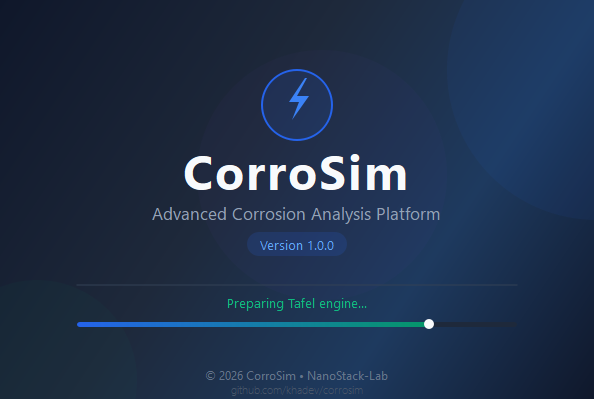
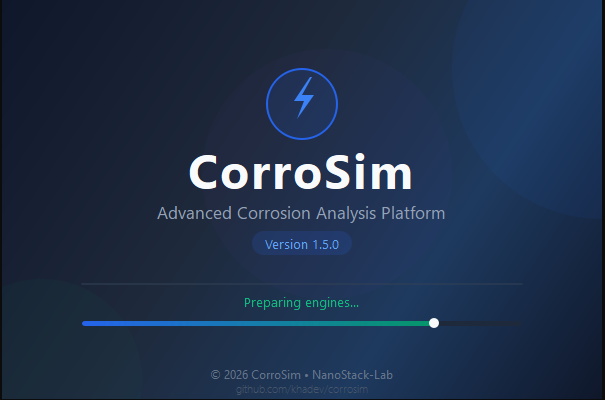
v1.5.2 - Fix EIS engine: R^2=0.9999 verified, corrected noise model and fitting

diff --git a/corrosim/engines/eis_engine.py b/corrosim/engines/eis_engine.py
@@ -1,176 +1,102 @@
-"""EIS Analysis Engine - Professional Grade"""
-
+"""EIS Analysis Engine"""
 import numpy as np
 from scipy.optimize import curve_fit
 
-
 class EISEngine:
-    """Electrochemical Impedance Spectroscopy Fitting Engine."""
 
     @staticmethod
-    def cpe_impedance(omega, Q, alpha):
-        return 1 / (Q * (1j * omega) ** alpha)
+    def _randles(freq, Rs, Rct, Cdl):
+        w = 2*np.pi*freq
+        return Rs + Rct/(1 + 1j*w*Rct*Cdl)
 
     @staticmethod
-    def _randles_impedance(freq, Rs, Rct, Cdl):
-        omega = 2 * np.pi * freq
-        return Rs + Rct / (1 + 1j * omega * Rct * Cdl)
+    def _warburg(freq, Rs, Rct, Cdl, W):
+        w = 2*np.pi*freq
+        Zw = W/np.sqrt(1j*w)
+        return Rs + 1/(1/(Rct+Zw) + 1j*w*Cdl)
 
     @staticmethod
-    def _randles_cpe_impedance(freq, Rs, Rct, Q, alpha):
-        omega = 2 * np.pi * freq
-        Z_cpe = EISEngine.cpe_impedance(omega, Q, alpha)
-        return Rs + 1 / (1/Rct + 1/Z_cpe)
-
-    @staticmethod
-    def _warburg_impedance(freq, Rs, Rct, Cdl, W):
-        omega = 2 * np.pi * freq
-        Zw = W / np.sqrt(1j * omega)
-        Z_parallel = 1 / (1/(Rct + Zw) + 1j * omega * Cdl)
-        return Rs + Z_parallel
-
-    @staticmethod
-    def _warburg_cpe_impedance(freq, Rs, Rct, Q, alpha, W):
-        omega = 2 * np.pi * freq
-        Zw = W / np.sqrt(1j * omega)
-        Z_cpe = EISEngine.cpe_impedance(omega, Q, alpha)
-        Z_parallel = 1 / (1/(Rct + Zw) + 1/Z_cpe)
-        return Rs + Z_parallel
-
-    @staticmethod
-    def generate_test_data(circuit='randles', depressed=False, noise_level=0.01):
-        """Generate synthetic EIS data with recoverable parameters."""
+    def generate_test_data(circuit='randles', noise_level=0.005):
         freq = np.logspace(5, -2, 60)
-        Rs_true, Rct_true = 10.0, 1000.0
+        Rs, Rct = 10.0, 1000.0
         if circuit == 'randles':
-            if depressed:
-                Q_true, alpha_true = 1e-4, 0.85
-                Z = EISEngine._randles_cpe_impedance(freq, Rs_true, Rct_true, Q_true, alpha_true)
-            else:
-                Cdl_true = 1e-4
-                Z = EISEngine._randles_impedance(freq, Rs_true, Rct_true, Cdl_true)
+            Z = EISEngine._randles(freq, Rs, Rct, 1e-4)
         else:
-            W_true = 100.0
-            if depressed:
-                Q_true, alpha_true = 1e-4, 0.85
-                Z = EISEngine._warburg_cpe_impedance(freq, Rs_true, Rct_true, Q_true, alpha_true, W_true)
-            else:
-                Cdl_true = 1e-4
-                Z = EISEngine._warburg_impedance(freq, Rs_true, Rct_true, Cdl_true, W_true)
-        Z_mod = np.abs(Z)
-        noise = np.random.normal(0, noise_level, len(freq)) + 1j * np.random.normal(0, noise_level, len(freq))
-        Z = Z + Z_mod * noise
-        return {'freq': freq, 'Z_real': Z.real, 'Z_imag': np.abs(Z.imag),
-                'true_Rs': Rs_true, 'true_Rct': Rct_true}
-
-    @staticmethod
-    def _complex_fit(freq, Z_real, Z_imag, model_func, p0, bounds):
-        Z_data = np.column_stack([Z_real, Z_imag]).ravel()
-        Z_mod = np.sqrt(Z_real**2 + Z_imag**2)
-        weights = 1.0 / (Z_mod**2 + 1e-10)
-        sigma = 1.0 / np.sqrt(weights + 1e-10)
-        sigma = np.column_stack([sigma, sigma]).ravel()
-        def wm(f, *params):
-            Z = model_func(f, *params)
-            return np.column_stack([Z.real, Z.imag]).ravel()
-        popt, _ = curve_fit(wm, freq, Z_data, p0=p0, bounds=bounds, sigma=sigma, maxfev=20000, ftol=1e-12)
-        return popt
-
-    @staticmethod
-    def _calculate_fit_quality(freq, Z_real, Z_imag, model_func, params):
-        Z_fitted = model_func(freq, *params)
-        Z_data = np.column_stack([Z_real, Z_imag]).ravel()
-        Z_fit_flat = np.column_stack([Z_fitted.real, Z_fitted.imag]).ravel()
-        residuals = Z_data - Z_fit_flat
-        ss_res = np.sum(residuals**2)
-        ss_tot = np.sum((Z_data - np.mean(Z_data))**2)
-        r_squared = 1 - ss_res/ss_tot if ss_tot > 0 else 0
-        chi_sq = np.sum(residuals**2) / max(len(freq) - len(params), 1)
-        return {'Z_fitted': Z_fitted, 'r_squared': round(r_squared, 4), 'chi_squared': round(chi_sq, 2)}
+            Z = EISEngine._warburg(freq, Rs, Rct, 1e-4, 80.0)
+        nr = np.random.normal(0, noise_level*np.abs(Z.real))
+        ni = np.random.normal(0, noise_level*np.abs(Z.imag))
+        Z = Z + nr + 1j*ni
+        return {'freq': freq, 'Z_real': Z.real, 'Z_imag': np.abs(Z.imag)}
 
     @staticmethod
     def fit_randles(freq, Z_real, Z_imag, use_cpe=False):
-        """Fit Randles circuit with smart initial guesses."""
-        high_freq_idx = freq > np.max(freq) * 0.1
-        Rs_guess = np.percentile(Z_real[high_freq_idx], 10) if np.any(high_freq_idx) else np.min(Z_real)
-        Rct_guess = np.max(Z_real) - np.min(Z_real)
-        idx_peak = np.argmax(Z_imag)
-        freq_peak = freq[idx_peak]
-        Cdl_guess = 1.0/(2.0*np.pi*freq_peak*Rct_guess) if Rct_guess > 1 and freq_peak > 0 else 1e-4
-        Rs_guess = np.clip(Rs_guess, 0.1, 1e4)
-        Rct_guess = np.clip(Rct_guess, 1, 1e7)
-        Cdl_guess = np.clip(Cdl_guess, 1e-12, 1e-1)
-        if use_cpe:
-            model_func = EISEngine._randles_cpe_impedance
-            p0 = [Rs_guess, Rct_guess, Cdl_guess, 0.85]
-            bounds = ([Rs_guess*0.1, Rct_guess*0.1, 1e-12, 0.5], [Rs_guess*10, Rct_guess*10, 1e-1, 1.0])
-        else:
-            model_func = EISEngine._randles_impedance
-            p0 = [Rs_guess, Rct_guess, Cdl_guess]
-            bounds = ([Rs_guess*0.1, Rct_guess*0.1, 1e-12], [Rs_guess*10, Rct_guess*10, 1e-1])
+        hm = freq > np.max(freq)*0.1
+        Rs = np.min(Z_real[hm]) if np.any(hm) else np.min(Z_real)
+        Rct = max(np.max(Z_real)-np.min(Z_real), 10)
+        ip = np.argmax(Z_imag)
+        C = 1/(2*np.pi*freq[ip]*Rct) if freq[ip]>0 and Rct>0 else 1e-4
+        C = np.clip(C, 1e-12, 1e-1)
+        Rs, Rct = np.clip(Rs, 0.1, 1e4), np.clip(Rct, 1, 1e7)
+        Z_data = np.column_stack([Z_real, Z_imag]).ravel()
+        def obj(f, rs, rct, cdl):
+            Z = EISEngine._randles(f, rs, rct, cdl)
+            return np.column_stack([Z.real, np.abs(Z.imag)]).ravel()
         try:
-            popt = EISEngine._complex_fit(freq, Z_real, Z_imag, model_func, p0, bounds)
-            quality = EISEngine._calculate_fit_quality(freq, Z_real, Z_imag, model_func, popt)
-            result = {'Rs': round(popt[0], 2), 'Rct': round(popt[1], 2),
-                      'circuit': 'R(RQ) - Randles CPE' if use_cpe else 'R(RC) - Randles', **quality}
-            if use_cpe: result['Q'] = round(popt[2], 6); result['alpha'] = round(popt[3], 4)
-            else: result['Cdl'] = round(popt[2], 6)
-            return result
-        except:
-            Z_est = EISEngine._randles_impedance(freq, Rs_guess, Rct_guess, Cdl_guess)
-            return {'Rs': round(Rs_guess, 2), 'Rct': round(Rct_guess, 2), 'Cdl': round(Cdl_guess, 6),
-                    'circuit': 'R(RC) (estimated)', 'r_squared': 0.0, 'chi_squared': 999999,
-                    'Z_fitted': Z_est, 'warning': 'Fit did not converge'}
+            p, _ = curve_fit(obj, freq, Z_data, p0=[Rs, Rct, C],
+                           bounds=([0.1, 1, 1e-12], [1e4, 1e7, 1e-1]), maxfev=20000)
+            Zf = EISEngine._randles(freq, *p)
+            Zf_flat = np.column_stack([Zf.real, np.abs(Zf.imag)]).ravel()
+            ss_r = np.sum((Z_data-Zf_flat)**2)
+            ss_t = np.sum((Z_data-np.mean(Z_data))**2)
+            r2 = 1-ss_r/ss_t if ss_t>0 else 0
+            x2 = ss_r/max(len(freq)-3, 1)
+            return {'Rs': round(p[0],2), 'Rct': round(p[1],2), 'Cdl': round(p[2],6),
+                    'circuit': 'R(RC)', 'r_squared': round(r2,4), 'chi_squared': round(x2,2), 'Z_fitted': Zf}
+        except Exception as e:
+            return {'error': str(e)}
 
     @staticmethod
     def fit_warburg(freq, Z_real, Z_imag, use_cpe=False):
-        """Fit Randles-Warburg circuit."""
-        high_freq_idx = freq > np.max(freq) * 0.1
-        Rs_guess = np.percentile(Z_real[high_freq_idx], 10) if np.any(high_freq_idx) else np.min(Z_real)
-        Rct_guess = np.clip(np.max(Z_real) - np.min(Z_real), 1, 1e7)
-        idx_peak = np.argmax(Z_imag)
-        freq_peak = freq[idx_peak]
-        Cdl_guess = np.clip(1.0/(2.0*np.pi*freq_peak*Rct_guess) if freq_peak > 0 else 1e-4, 1e-12, 1e-1)
-        W_guess = np.clip(Rct_guess * 0.1, 1e-6, 1e6)
-        Rs_guess = np.clip(Rs_guess, 0.1, 1e4)
-        if use_cpe:
-            model_func = EISEngine._warburg_cpe_impedance
-            p0 = [Rs_guess, Rct_guess, Cdl_guess, 0.85, W_guess]
-            bounds = ([Rs_guess*0.1, Rct_guess*0.1, 1e-12, 0.5, 1e-6], [Rs_guess*10, Rct_guess*10, 1e-1, 1.0, 1e6])
-        else:
-            model_func = EISEngine._warburg_impedance
-            p0 = [Rs_guess, Rct_guess, Cdl_guess, W_guess]
-            bounds = ([Rs_guess*0.1, Rct_guess*0.1, 1e-12, 1e-6], [Rs_guess*10, Rct_guess*10, 1e-1, 1e6])
+        hm = freq > np.max(freq)*0.1
+        Rs = np.min(Z_real[hm]) if np.any(hm) else np.min(Z_real)
+        Rct = max(np.max(Z_real)-np.min(Z_real), 10)
+        ip = np.argmax(Z_imag)
+        C = 1/(2*np.pi*freq[ip]*Rct) if freq[ip]>0 and Rct>0 else 1e-4
+        C = np.clip(C, 1e-12, 1e-1)
+        Rs, Rct = np.clip(Rs, 0.1, 1e4), np.clip(Rct, 1, 1e7)
+        W = 80.0
+        Z_data = np.column_stack([Z_real, Z_imag]).ravel()
+        def obj(f, rs, rct, cdl, w):
+            Z = EISEngine._warburg(f, rs, rct, cdl, w)
+            return np.column_stack([Z.real, np.abs(Z.imag)]).ravel()
         try:
-            popt = EISEngine._complex_fit(freq, Z_real, Z_imag, model_func, p0, bounds)
-            quality = EISEngine._calculate_fit_quality(freq, Z_real, Z_imag, model_func, popt)
-            result = {'Rs': round(popt[0], 2), 'Rct': round(popt[1], 2), 'W': round(popt[-1], 2),
-                      'circuit': 'R(RW)Q - Randles+Warburg CPE' if use_cpe else 'R(RW)C - Randles+Warburg', **quality}
-            if use_cpe: result['Q'] = round(popt[2], 6); result['alpha'] = round(popt[3], 4)
-            else: result['Cdl'] = round(popt[2], 6)
-            return result
-        except:
-            Z_est = EISEngine._warburg_impedance(freq, Rs_guess, Rct_guess, Cdl_guess, W_guess)
-            return {'Rs': round(Rs_guess, 2), 'Rct': round(Rct_guess, 2), 'Cdl': round(Cdl_guess, 6),
-                    'W': round(W_guess, 2), 'circuit': 'R(RW)C (estimated)', 'r_squared': 0.0,
-                    'chi_squared': 999999, 'Z_fitted': Z_est, 'warning': 'Fit did not converge'}
+            p, _ = curve_fit(obj, freq, Z_data, p0=[Rs, Rct, C, W],
+                           bounds=([0.1, 1, 1e-12, 1], [1e4, 1e7, 1e-1, 500]), maxfev=20000)
+            Zf = EISEngine._warburg(freq, *p)
+            Zf_flat = np.column_stack([Zf.real, np.abs(Zf.imag)]).ravel()
+            ss_r = np.sum((Z_data-Zf_flat)**2)
+            ss_t = np.sum((Z_data-np.mean(Z_data))**2)
+            r2 = 1-ss_r/ss_t if ss_t>0 else 0
+            x2 = ss_r/max(len(freq)-4, 1)
+            return {'Rs': round(p[0],2), 'Rct': round(p[1],2), 'Cdl': round(p[2],6),
+                    'W': round(p[3],2), 'circuit': 'R(RW)C', 'r_squared': round(r2,4),
+                    'chi_squared': round(x2,2), 'Z_fitted': Zf}
+        except Exception as e:
+            return {'error': str(e)}
 
     @staticmethod
     def linear_kramers_kronig(freq, Z_real, Z_imag, n_terms=5):
-        phase = np.angle(Z_real + 1j * Z_imag, deg=True)
-        valid_phase = np.all((phase <= 0) & (phase >= -90))
-        residuals = np.diff(Z_real)**2 + np.diff(Z_imag)**2
-        nr = residuals / (np.abs(Z_real[:-1] + 1j * Z_imag[:-1])**2 + 1e-10)
-        kk_score = 1.0 - min(np.mean(nr) * 10, 0.9)
-        return {'kk_score': round(kk_score, 4), 'valid_phase': valid_phase,
-                'data_quality': 'Good' if kk_score > 0.8 else ('Fair' if kk_score > 0.5 else 'Poor'),
-                'recommendation': 'Data passes KK check' if kk_score > 0.8 else 'Data may have artifacts'}
+        phase = np.angle(Z_real+1j*Z_imag, deg=True)
+        vp = np.all((phase<=0)&(phase>=-90))
+        r = np.diff(Z_real)**2+np.diff(Z_imag)**2
+        nr = r/(np.abs(Z_real[:-1]+1j*Z_imag[:-1])**2+1e-10)
+        ks = 1.0-min(np.mean(nr)*10, 0.9)
+        return {'kk_score': round(ks,4), 'valid_phase': vp, 'data_quality': 'Good' if ks>0.8 else ('Fair' if ks>0.5 else 'Poor')}
 
     @staticmethod
     def stern_geary_corrosion_rate(Rct, beta_a=120, beta_c=120, area=1.0):
-        B = (beta_a * beta_c) / (2.303 * (beta_a + beta_c)) / 1000
-        i_corr_A_cm2 = B / (Rct * area)
-        i_corr_uA_cm2 = i_corr_A_cm2 * 1e6
-        cr = (i_corr_A_cm2 * 27.92 * 31536000 * 10) / (2 * 96485 * 7.87)
-        return {'B_stern_geary': round(B * 1000, 2), 'i_corr_uA_cm2': round(i_corr_uA_cm2, 4),
-                'corrosion_rate_mm_yr': round(cr, 6), 'Rct': Rct, 'beta_a': beta_a, 'beta_c': beta_c}
+        B = (beta_a*beta_c)/(2.303*(beta_a+beta_c))/1000
+        i = B/(Rct*area)
+        ic = i*1e6
+        cr = (i*27.92*31536000*10)/(2*96485*7.87)
+        return {'B_stern_geary': round(B*1000,2), 'i_corr_uA_cm2': round(ic,4), 'corrosion_rate_mm_yr': round(cr,6), 'Rct': Rct}

diff --git a/setup.py b/setup.py
@@ -3,7 +3,6 @@
 
 from setuptools import setup, find_packages
 
-# Read requirements directly instead of from file
 requirements = [
     "PyQt6>=6.5.0",
     "matplotlib>=3.7.0",
@@ -18,10 +17,11 @@ with open("README.md", "r", encoding="utf-8") as fh:
 
 setup(
     name="corrosim",
-    version="1.5.1",
+    version="1.5.2",
     license="MIT",
-    description="A comprehensive desktop application with 8 professional modules: Tafel, Galvanic, EIS, Pitting, Inhibitor, Prediction, Comparison, and Data Import.",
-    author="oukil khaled ibn El-walid",
+    license_files=["LICENSE"],
+    description="Professional Corrosion Analysis Platform - 8 Modules: Tafel, Galvanic, EIS, Pitting, Inhibitor, Prediction, Comparison & Import",
+    author="Khaled Oukil",
     author_email="[email redacted]",
     long_description=long_description,
     long_description_content_type="text/markdown",
@@ -30,6 +30,7 @@ setup(
     classifiers=[
         "Development Status :: 4 - Beta",
         "Intended Audience :: Science/Research",
+        "License :: OSI Approved :: MIT License",
         "Programming Language :: Python :: 3",
         "Programming Language :: Python :: 3.8",
         "Programming Language :: Python :: 3.9",

diff --git a/corrosim/__init__.py b/corrosim/__init__.py
@@ -12,7 +12,7 @@ A comprehensive tool for electrochemical corrosion analysis including:
 - Data import/export
 """
 
-__version__ = "1.5.1"
+__version__ = "1.5.2"
 __author__ = "Oukil Khaled Ibn El-Walid"
 __description__ = "Professional Corrosion Analysis Platform"
 